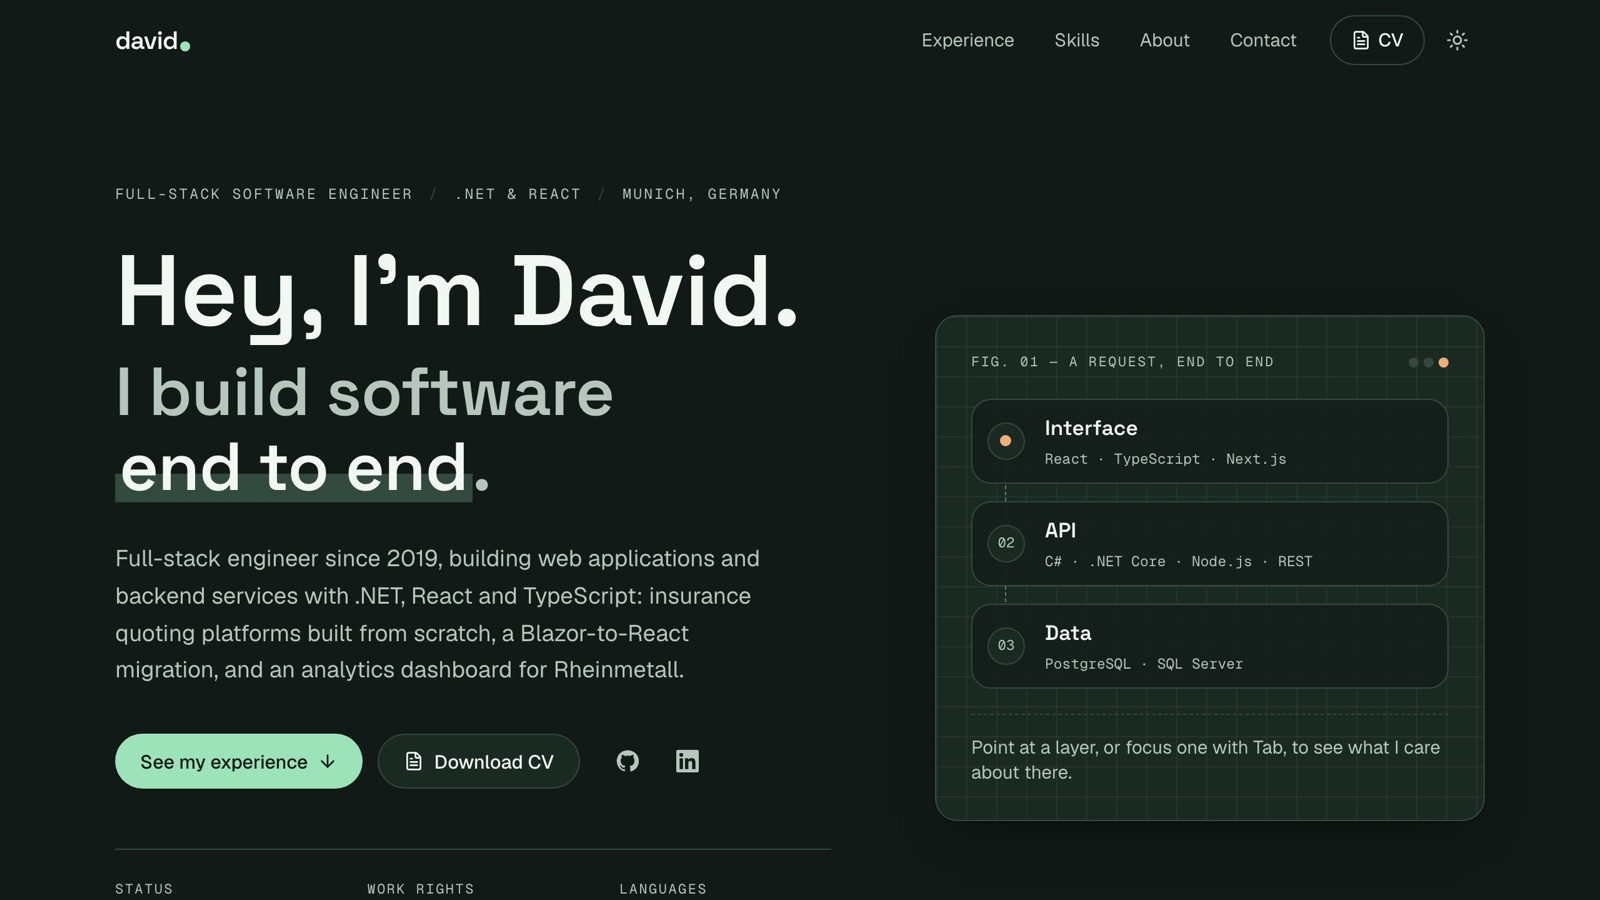
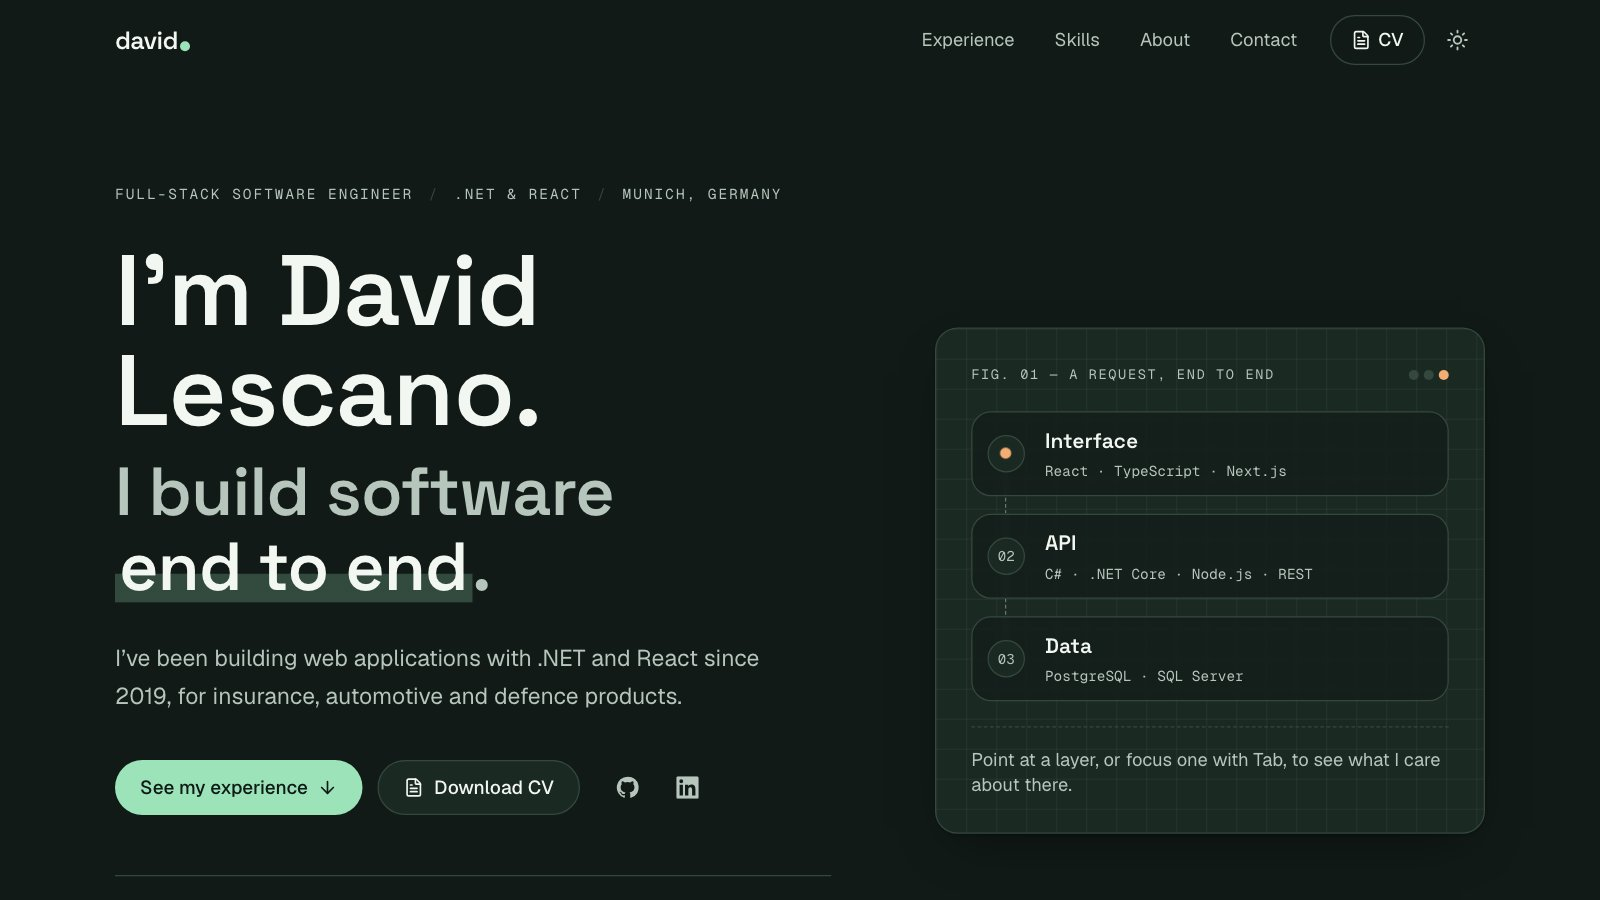
Update README screenshots and keep them in sync with the site

diff --git a/AGENTS.md b/AGENTS.md
@@ -75,7 +75,11 @@ content files and the rendered text of every page.
 
 - **Copy:** English (en-GB dates, e.g. "1 Jan 2026"), short sentences, first person on the site, no buzzwords.
 - **Code:** match the surrounding code. Small components, no comments that restate the code.
-- **Commits:** short, imperative subject line ("Add notes section"), one topic per commit.
+- **Commits:** short, imperative subject line ("Add notes section"), one topic per commit. Authored by David only: no
+  `Co-Authored-By` or other AI attribution.
+- **Keep the repo in sync.** When visible copy or layout changes, search the whole repo, not only `src/`: update
+  `README.md` and the preview screenshots in `.github/assets/` (1280×720 viewport, device scale 1.25, light and dark,
+  JPEG), and check that README claims still hold.
 
 <!-- BEGIN:nextjs-agent-rules -->
 
